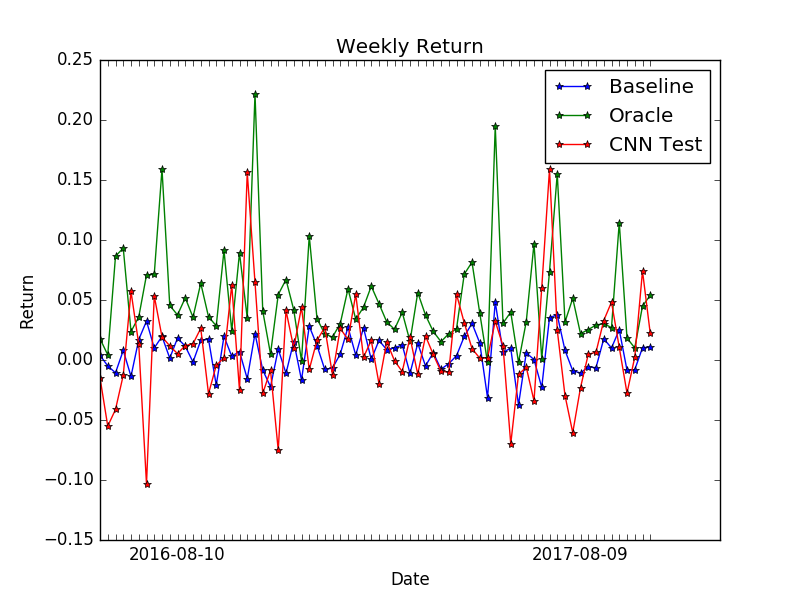
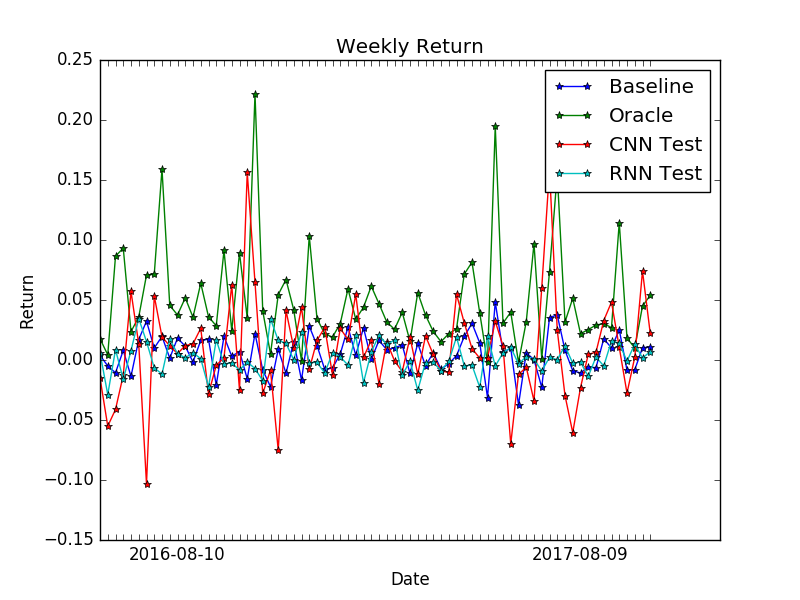
11.26

diff --git a/generatePlots.py b/generatePlots.py
@@ -10,6 +10,10 @@ Re_ep, D, M= ep.main()
 
 # get return from senarios other than baseline
 Re_oa = oa.main()
+
+Re_rnn_test = [0.98699791543185711, 1.0302469525486231, 0.98419808596372604, 0.99246294936165214, 0.99644162878394127, 1.0021397278178483, 0.96342739462852478, 1.0093504190444946, 1.0058030257932842, 1.0108546251431108, 0.99463294167071581, 0.97932521626353264, 0.97577562183141708, 1.0199341848492622, 0.97513593733310699, 1.0044565079733729, 1.0034554465673864, 1.0128548936918378, 0.99346175231039524, 1.0034837136045098, 0.99961665680166334, 1.0050968392752111, 1.0159019455313683, 0.99151359498500824, 0.99023677315562963, 0.99652773281559348, 0.99470548797398806, 0.99392154207453132, 0.98556465562433004, 0.98763161618262529, 1.023836724460125, 0.99858165776822716, 0.98902222979813814, 1.0086559215560555, 0.99305670382454991, 0.99331719195470214, 0.93084041774272919, 0.99285905668511987, 0.99414464179426432, 1.0204637832939625, 0.9648950919508934, 1.0024581379257143, 1.0318303816020489, 0.99603453790768981, 1.01806422136724, 1.0426683016121387, 1.0002083564177155, 0.98638583719730377, 1.0043056388385594, 1.0001035495661199, 1.0008589714998379, 0.98385184444487095, 1.0227256827056408, 0.9882742203772068, 0.99722882523201406, 0.96293649077415466, 0.95701735094189644, 0.96920986101031303, 1.0095726065337658, 1.0137687837705016, 0.98237369954586029, 1.0280960500240326, 0.9960013129748404, 1.0202718172222376, 1.0036219651810825, 1.012405363842845, 1.0129508962854743, 1.0043390495702624, 0.99198687169700861, 1.0136306099593639, 1.0205097328871489, 0.99291858077049255, 0.97202472202479839, 0.9990381557145156, 1.005024541169405, 1.0365979261696339, 1.0000580915948376, 1.0061451056972146, 0.97116700932383537, 1.0086263455450535, 0.98388566635549068, 1.0077547738328576, 1.0345463305711746, 1.0153770381584764, 0.9934319956228137, 0.98830546531826258, 1.0173863414674997, 1.0052987327799201, 1.0018104179762304, 1.0060948939062655, 1.0010422504274175, 0.97746757976710796, 1.0167436208575964, 0.99684423580765724, 0.99761039111763239, 0.99156889878213406, 0.99836198694538325, 0.99289787374436855, 0.98267624899744987, 1.034266397356987, 1.016364136710763, 1.0138454157859087, 1.00006840727292, 1.0236411299556494, 0.99788738670758903, 0.99796734610572457, 0.98912438470870256, 1.0059455977752805, 1.0026211210060865, 0.99575534649193287, 1.0204333234578371, 0.98114312067627907, 1.0065573779866099, 1.0207186471670866, 1.0130014345049858, 1.0165528748184443, 0.98727479483932257, 0.99914521537721157, 0.97479545138776302, 0.99783506477251649, 0.99797992967069149, 0.99124008230865002, 0.99878159444779158, 1.0191203597933054, 0.99518317542970181, 0.99573235400021076, 0.97727182134985924, 1.0202201921492815, 0.99497101083397865, 1.0058765853755176, 1.0104942256584764, 0.99677972076460719, 1.0028020553290844, 1.0008093026699498, 0.9906464759260416, 1.0022914225701243, 1.0002781198127195, 1.0118468115106225, 0.99728987435810268, 0.99822638870682567, 0.98634239565581083, 1.002572680125013, 0.99498100997880101, 1.0158645864576101, 1.0139346187934279, 0.99905628542182967, 1.0132189206779003, 1.0016863415949047, 1.0069735208526254]
+Re_rnn_test = np.array(Re_rnn_test)
+Re_rnn_test -= 1
 #Re_cnn = cnn.main()
 Re_cnn_test = [-0.014807714149355888, -0.05512503162026405, -0.04122151806950569, -0.012694030068814754, 0.0571012943983078, 0.013195204548537731, -0.10323681682348251, 0.05336137115955353, 0.019293472170829773, 0.011776459403336048, 0.005290846340358257, 0.012009579688310623, 0.01347731426358223, 0.026381151750683784, -0.028121378272771835, -0.0044950200244784355, 0.0018804875435307622, 0.0626310482621193, -0.025363033637404442, 0.1563202142715454, 0.06463785469532013, -0.027876459062099457, -0.008470351807773113, -0.07526734471321106, 0.041258327662944794, 0.010079851374030113, 0.04389847442507744, -0.007912030443549156, 0.0163759533315897, 0.027143102139234543, -0.012412595562636852, 0.02627021074295044, 0.017093472182750702, 0.05476566031575203, 0.0022737307008355856, 0.016268141567707062, -0.019795579835772514, 0.015223965048789978, -0.0006209193961694837, -0.009678196161985397, 0.018862446770071983, -0.01187615841627121, 0.020047029480338097, 0.004612908698618412, -0.009518500417470932, -0.010059393011033535, 0.05487605929374695, 0.03095647692680359, 0.009577382355928421, 0.0014921074034646153, 0.0016580418450757861, 0.03231893479824066, 0.011774206534028053, -0.06993858516216278, -0.012055364437401295, -0.006034148391336203, -0.03401101753115654, 0.06029924005270004, 0.1588975340127945, 0.024834275245666504, -0.029615264385938644, -0.06051868572831154, -0.023021016269922256, 0.004709329921752214, 0.006495135370641947, 0.0328625813126564, 0.048296380788087845, 0.010540599934756756, -0.027613693848252296, 0.002334429882466793, 0.0741630271077156, 0.022138116881251335]
 Date_cnn_test = [('2016-05-25', '2016-06-01'), ('2016-06-01', '2016-06-08'), ('2016-06-08', '2016-06-15'), ('2016-06-15', '2016-06-22'), ('2016-06-22', '2016-06-29'), ('2016-06-29', '2016-07-06'), ('2016-07-06', '2016-07-13'), ('2016-07-13', '2016-07-20'), ('2016-07-20', '2016-07-27'), ('2016-07-27', '2016-08-03'), ('2016-08-03', '2016-08-10'), ('2016-08-10', '2016-08-17'), ('2016-08-17', '2016-08-24'), ('2016-08-24', '2016-08-31'), ('2016-08-31', '2016-09-07'), ('2016-09-07', '2016-09-14'), ('2016-09-14', '2016-09-21'), ('2016-09-21', '2016-09-28'), ('2016-09-28', '2016-10-05'), ('2016-10-05', '2016-10-12'), ('2016-10-12', '2016-10-19'), ('2016-10-19', '2016-10-26'), ('2016-10-26', '2016-11-02'), ('2016-11-02', '2016-11-09'), ('2016-11-09', '2016-11-16'), ('2016-11-16', '2016-11-23'), ('2016-11-23', '2016-11-30'), ('2016-11-30', '2016-12-07'), ('2016-12-07', '2016-12-14'), ('2016-12-14', '2016-12-21'), ('2016-12-21', '2016-12-28'), ('2016-12-28', '2017-01-04'), ('2017-01-04', '2017-01-11'), ('2017-01-11', '2017-01-18'), ('2017-01-18', '2017-01-25'), ('2017-01-25', '2017-02-01'), ('2017-02-01', '2017-02-08'), ('2017-02-08', '2017-02-15'), ('2017-02-15', '2017-02-22'), ('2017-02-22', '2017-03-01'), ('2017-03-01', '2017-03-08'), ('2017-03-08', '2017-03-15'), ('2017-03-15', '2017-03-22'), ('2017-03-22', '2017-03-29'), ('2017-03-29', '2017-04-05'), ('2017-04-05', '2017-04-12'), ('2017-04-12', '2017-04-19'), ('2017-04-19', '2017-04-26'), ('2017-04-26', '2017-05-03'), ('2017-05-03', '2017-05-10'), ('2017-05-10', '2017-05-17'), ('2017-05-17', '2017-05-24'), ('2017-05-24', '2017-05-31'), ('2017-05-31', '2017-06-07'), ('2017-06-07', '2017-06-14'), ('2017-06-14', '2017-06-21'), ('2017-06-21', '2017-06-28'), ('2017-06-28', '2017-07-05'), ('2017-07-05', '2017-07-12'), ('2017-07-12', '2017-07-19'), ('2017-07-19', '2017-07-26'), ('2017-07-26', '2017-08-02'), ('2017-08-02', '2017-08-09'), ('2017-08-09', '2017-08-16'), ('2017-08-16', '2017-08-23'), ('2017-08-23', '2017-08-30'), ('2017-08-30', '2017-09-06'), ('2017-09-06', '2017-09-13'), ('2017-09-13', '2017-09-20'), ('2017-09-20', '2017-09-27'), ('2017-09-27', '2017-10-04'), ('2017-10-04', '2017-10-11')]
@@ -21,6 +25,7 @@ Re_oa = Re_oa[:-1]
 # Re_cnn_test should be shortest
 Re_ep = Re_ep[len(Re_ep)-len(Re_cnn_test):]
 Re_oa = Re_oa[len(Re_oa)-len(Re_cnn_test):]
+Re_rnn_test = Re_rnn_test[len(Re_rnn_test)-len(Re_cnn_test):]
 #Re_cnn = Re_cnn[len(Re_cnn)-len(Re_cnn_test):]
 
 
@@ -64,6 +69,7 @@ Re_ep_accum = accum(Re_ep)
 Re_oa_accum = accum(Re_oa)
 #Re_cnn_accum = accum(Re_cnn)
 Re_cnn_test_accum = accum(Re_cnn_test)
+Re_rnn_test_accum = accum(Re_rnn_test)
 
 # calculate total return and sharp ration
 def totalReturn(Re):
@@ -80,14 +86,16 @@ print 'totalReturn \t sharp_ratio'
 print 'baseline', totalReturn(Re_ep), sharp_ratio(Re_ep)
 print 'oracle', totalReturn(Re_oa), sharp_ratio(Re_oa)
 print 'cnn', totalReturn(Re_cnn_test), sharp_ratio(Re_cnn_test)
+print 'rnn', totalReturn(Re_rnn_test), sharp_ratio(Re_rnn_test)
 # do the ploting
 
 plt.plot(x,Re_ep,'*-')
 plt.plot(x,Re_oa,'*-')
 plt.plot(x,Re_cnn_test,'*-')
+plt.plot(x,Re_rnn_test,'*-')
 plt.xticks(x, Date)
 plt.title('Weekly Return')
-plt.legend(['Baseline','Oracle', 'CNN Test'])
+plt.legend(['Baseline','Oracle', 'CNN Test', 'RNN Test'])
 plt.xlabel('Date')
 plt.ylabel('Return')
 plt.savefig('Weekly_Re')
@@ -98,11 +106,12 @@ plt.show()
 plt.plot(x,Re_ep_accum,'*-')
 plt.plot(x,Re_oa_accum,'*-')
 plt.plot(x,Re_cnn_test_accum,'*-')
+plt.plot(x,Re_rnn_test_accum,'*-')
 plt.xticks(x, Date)
 plt.title('Weekly Accumulated Return')
-plt.legend(['Baseline','Oracle', 'CNN Test'])
+plt.legend(['Baseline','Oracle', 'CNN Test', 'RNN Test'])
 plt.xlabel('Date')
-plt.ylabel('Accumulate Return')
+plt.ylabel('Accumulated Return')
 plt.savefig('Weekly_Re_Accum')
 #plt.margins(0.2)
 #plt.subplots_adjust(bottom=0.15)

diff --git a/modeltrial.py b/modeltrial.py
@@ -107,34 +107,43 @@ def trainAndTestTrial():
 				returnTensor, prevReturnMatrix, nextReturnMatrix = du.getInputs(stockPrices, N, L = 4)
 				allActions, growthRates = mu.train1epoch(returnTensor, prevReturnMatrix, nextReturnMatrix, curModel, sess)
 				totalGR = du.prod(growthRates)
+				'''
 				if i%10 == 0:
 					#print(len(allActions))
 					#print(allActions[4])
+					
 					print(i, 'th group in training')
 					print('total growth rate:')
 					print(totalGR)
 					print()
+					'''
 		for i in range(len(devPriceList)):
 			stockPrices = devPriceList[i]
-			returnTensor, prevReturnMatrix, nextReturnMatrix = du.getInputs(stockPrices, N)
+			returnTensor, prevReturnMatrix, nextReturnMatrix = du.getInputs(stockPrices, N, L=4)
 			allActions, growthRates = mu.test1epoch(returnTensor, prevReturnMatrix, nextReturnMatrix, curModel, sess)
 			totalGR = du.prod(growthRates)
+			'''
 			print(i, 'th group in dev')
 			print('total growth rate:')
 			print(totalGR)
 			print()
-		return_list = []
+			'''
 		for i in range(len(testPriceList)):
 			stockPrices = testPriceList[i]
-			returnTensor, prevReturnMatrix, nextReturnMatrix = du.getInputs(stockPrices, N)
+			returnTensor, prevReturnMatrix, nextReturnMatrix = du.getInputs(stockPrices, N, L=4)
 			allActions, growthRates = mu.test1epoch(returnTensor, prevReturnMatrix, nextReturnMatrix, curModel, sess)
 			totalGR = du.prod(growthRates)
+			'''
 			print(i, 'th group in test')
 			print('total growth rate:')
 			print(totalGR)
-			return_list.append(totalGR)
+			
 			print()
-	   	print(return_list)
+			'''
+			print(growthRates)
+			print(len(growthRates))
+	
+	   	
 
 if __name__=='__main__':
 	main()
